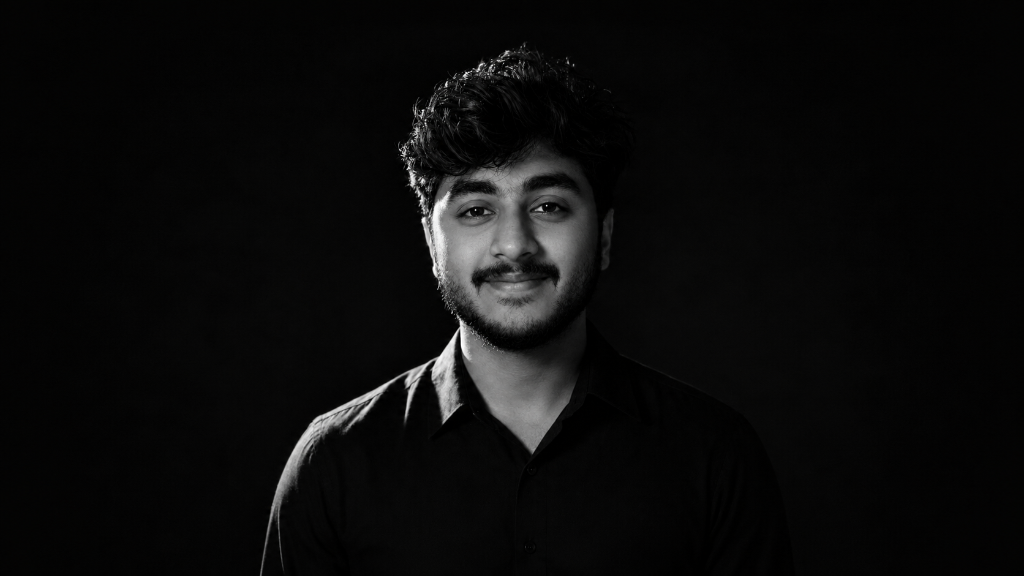
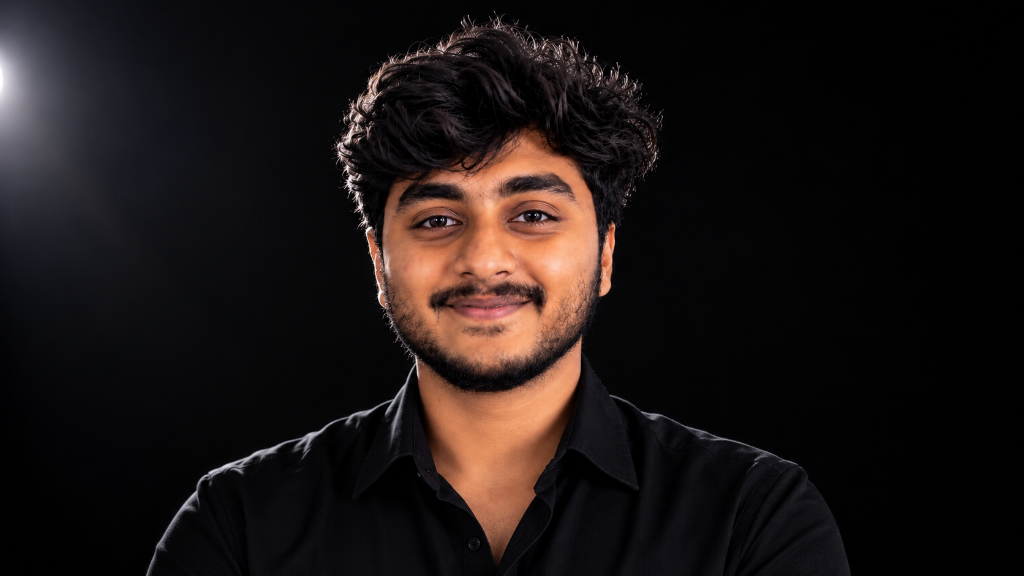
landing page improve

diff --git a/src/styles/components.css b/src/styles/components.css
@@ -25,12 +25,12 @@
 .hero-v2__bg-image {
   position: absolute;
   inset: 0;
-  background-size: contain; /* Prevents square image from zooming in too much */
-  background-position: center bottom; 
+  background-size: 95%;
+  background-position: center center;
   background-repeat: no-repeat;
   z-index: -2;
   opacity: 1;
-  /* Soft vignette mask: dissolves the image's hard rectangular edges (left/right/top)
+  /* Soft vignette mask: dissolves the image's hard rectangular edges
      into the page background instead of showing a visible photo "frame". */
   -webkit-mask-image: radial-gradient(ellipse 72% 88% at 50% 42%, #000 58%, transparent 100%);
   mask-image: radial-gradient(ellipse 72% 88% at 50% 42%, #000 58%, transparent 100%);

diff --git a/src/components/HeroV2.jsx b/src/components/HeroV2.jsx
@@ -27,7 +27,7 @@ export default function HeroV2() {
         style={reduceMotion ? {} : { y: bgY }}
         aria-hidden="true"
       >
-        <div className="hero-v2__bg-image" style={{ backgroundImage: "url('/hero-image.jpg')" }} />
+        <div className="hero-v2__bg-image" style={{ backgroundImage: "url('/hero-image.png')" }} />
         <div className="hero-v2__bg-gradient" />
       </motion.div>
 
